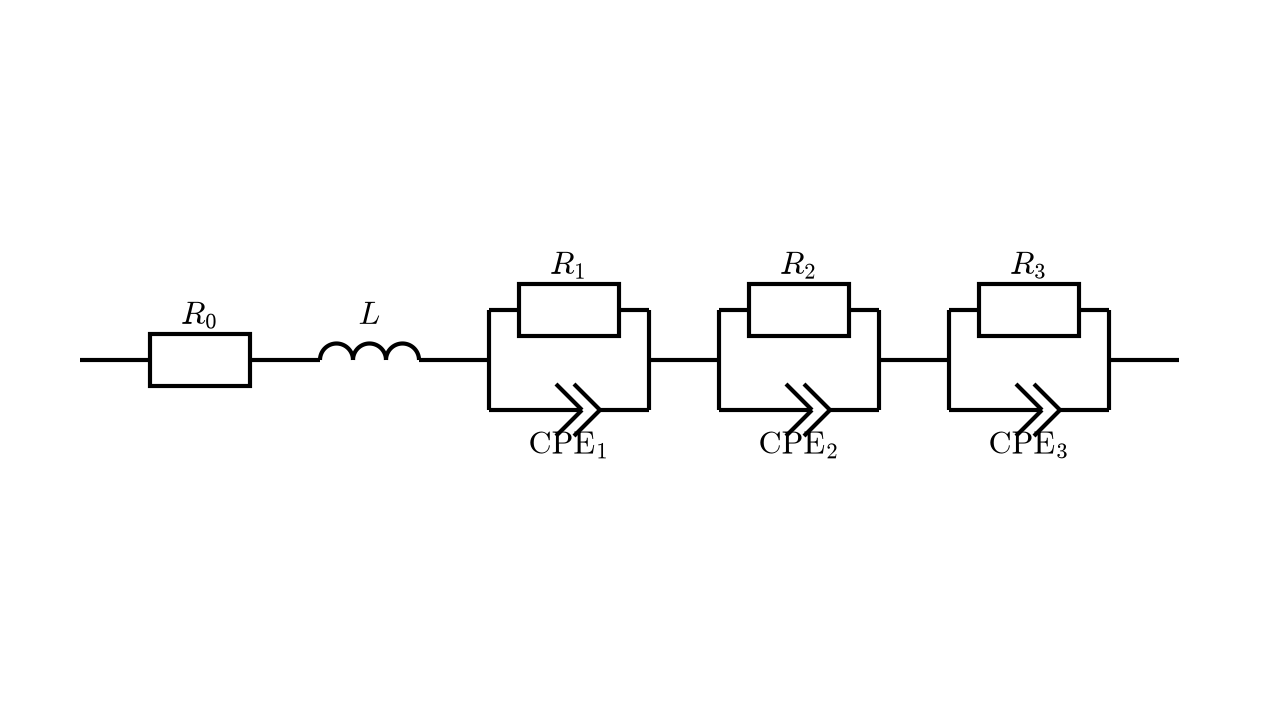
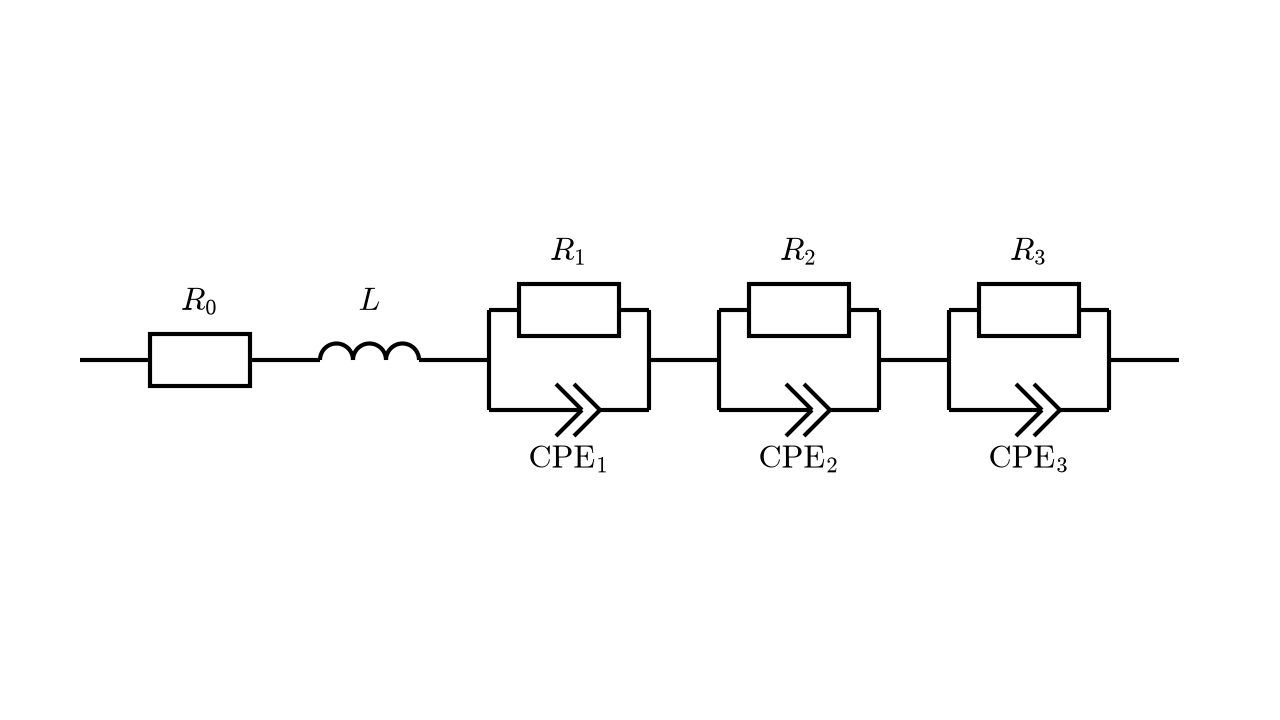
create_eec_diagram: widen label-to-element gap (50/58 px from wire)

diff --git a/Konference/create_eec_diagram.py b/Konference/create_eec_diagram.py
@@ -128,7 +128,7 @@ def layout(series) -> list[tuple]:
             prims.append(("line", x1, y, x2, y))
 
     def label(x, y, name, num, below=False):
-        ty = y + 44 * s if below else y - 36 * s
+        ty = y + 58 * s if below else y - 50 * s
         prims.append(("text", x, ty, name, num, FONT * s))
 
     def draw_leaf(kind, left, cy):
